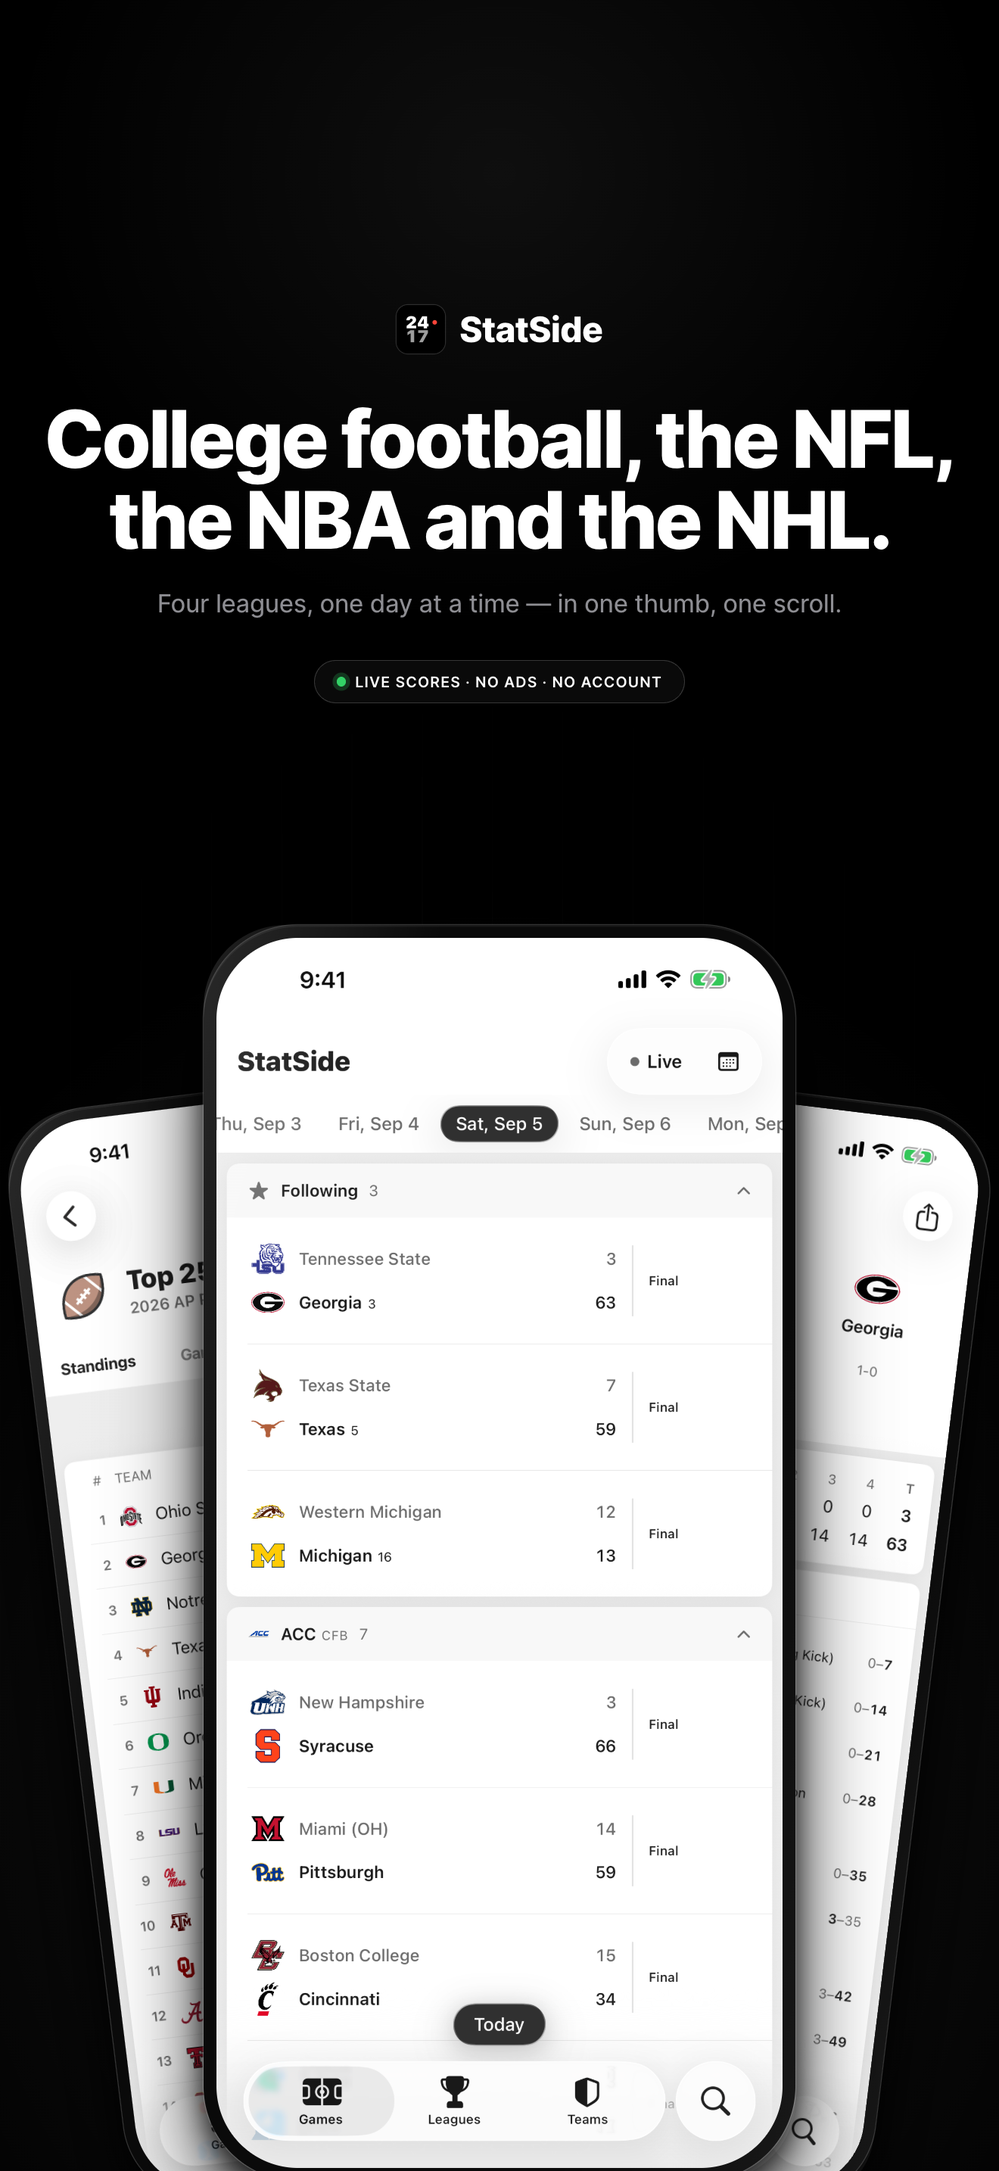
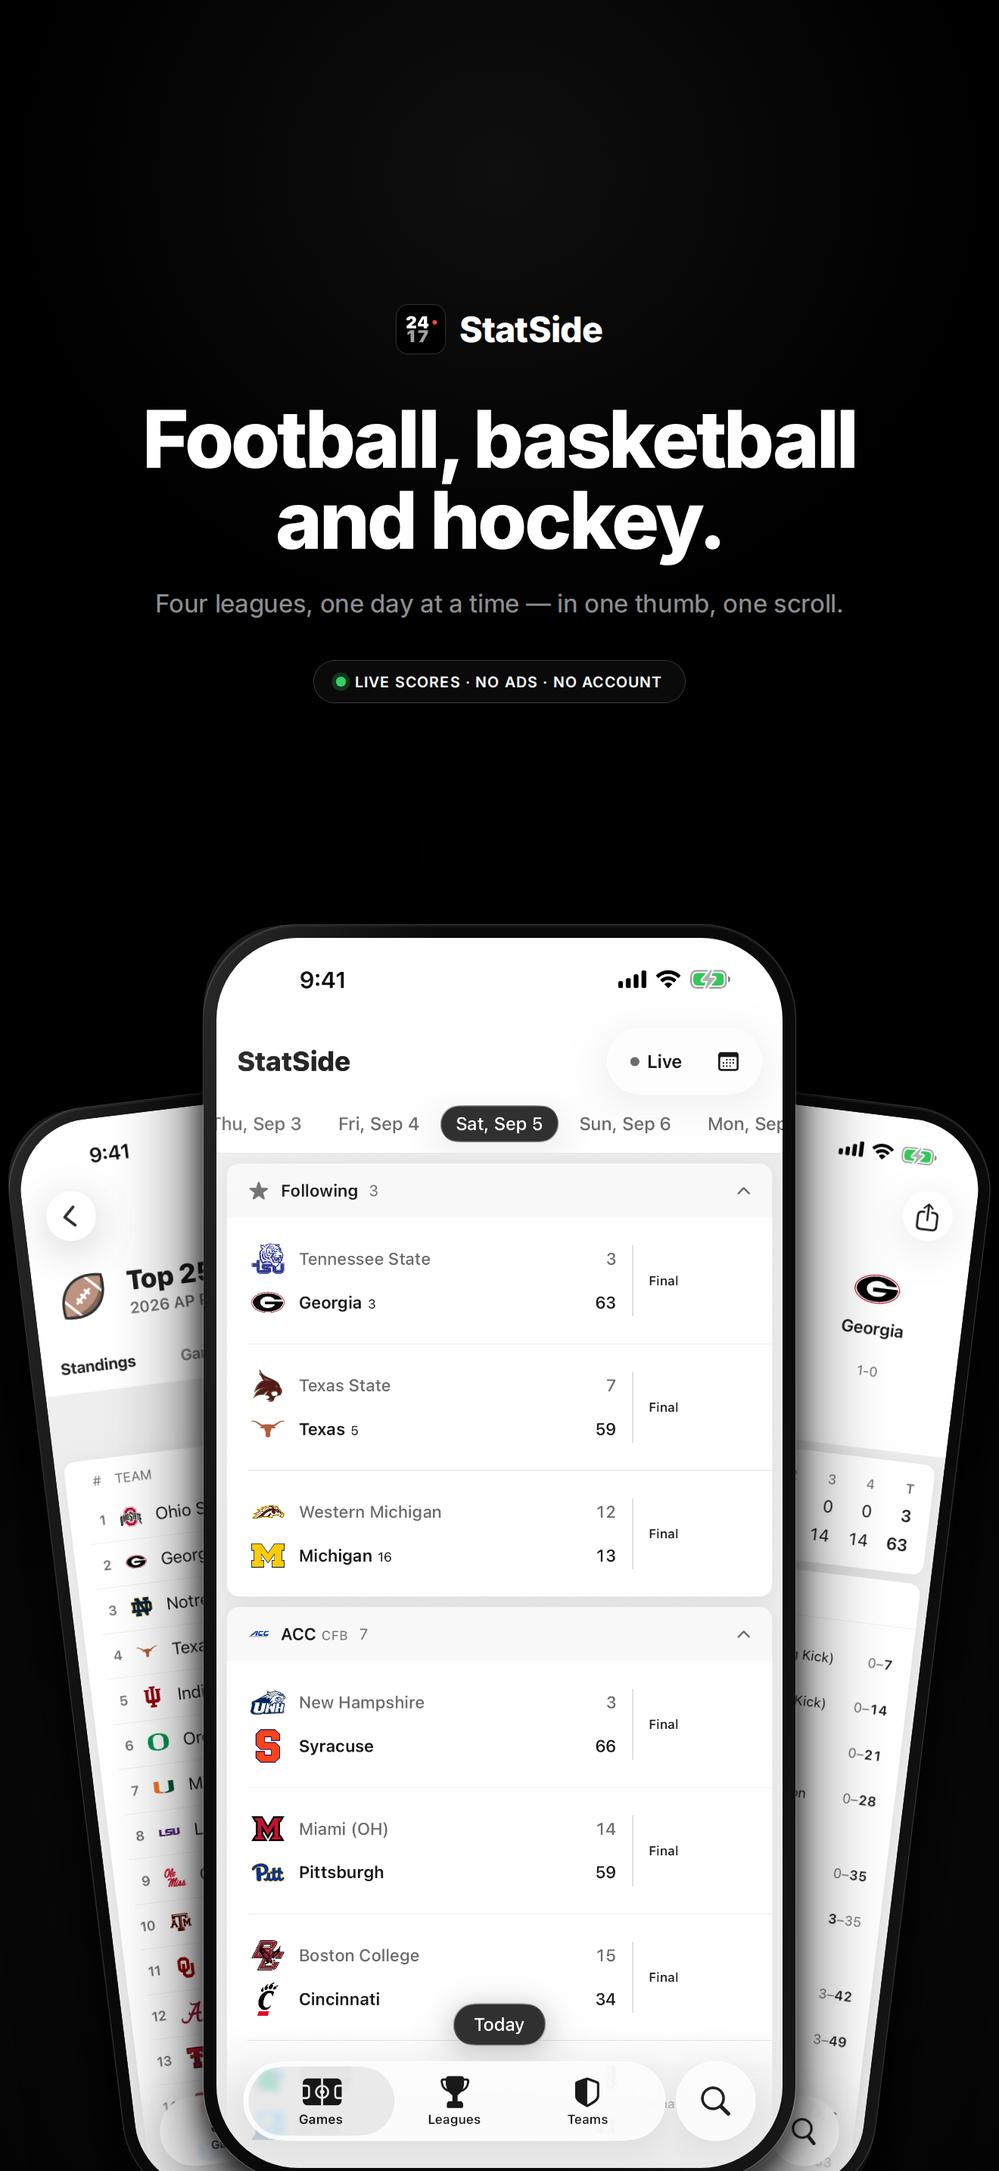
Take league names out of the App Store listing (4.1(a) rejection) (#246)
App Review rejected 2.6.1 (21) under Guideline 4.1(a): the metadata named
third-party leagues without authorization. Every public field now names
sports instead of leagues:

- Subtitle: "Football, basketball, hockey" (was "CFB, NFL, NBA and NHL scores")
- Keywords: ncaaf, afc, nfc out
- Promotional text and description: football, basketball, hockey, college
  and pro; the disclaimer covers any league without naming one
- Re-rendered 01-hero (headline), 05-rankings (poll bullet) and 08-closer
  (disclaimer) at both sizes

Adds the Resolution Center reply, a decisions row, a parity row (n/a), and
a cut-release rule so the next listing audit doesn't put the names back.
No new build: build 21 stands.

Claude-Session: https://claude.ai/code/session_01Xg5NgBDs9bUxv6nYzioayx

Changed region(s): [[0.0311, 0.1862, 0.9318, 0.2793]]

diff --git a/docs/social/src/as-08-closer.html b/docs/social/src/as-08-closer.html
@@ -42,7 +42,7 @@
       <img class="icon" src="../../../sports/Assets.xcassets/AppIcon.appiconset/AppIcon.png">
       <div class="wordmark">StatSide</div>
       <div class="headline">Fast. Focused.<br>Four leagues, done right.</div>
-      <div class="fine">An independent app. Not affiliated with or endorsed by the NFL, the NBA, the NHL, the NCAA, or any conference, team or school.</div>
+      <div class="fine">An independent app. Not affiliated with or endorsed by any league, conference, team or school.</div>
     </div>
   </div>
 </div>

diff --git a/docs/social/src/as-05-rankings.html b/docs/social/src/as-05-rankings.html
@@ -34,7 +34,7 @@
       <div class="kicker">Tables and details</div>
       <div class="headline">Polls, plays,<br>whole seasons.</div>
       <ul class="bullets">
-        <li><b>AP Top 25 and Coaches Poll</b>, with movement arrows</li>
+        <li><b>The Top 25 polls</b>, with movement arrows</li>
         <li><b>Game pages</b> — line score, scoring plays, drive log, team stats</li>
         <li><b>Team pages</b> — full season schedule and results</li>
         <li><b>Past seasons</b> back to 2014</li>

diff --git a/docs/social/src/as-01-hero.html b/docs/social/src/as-01-hero.html
@@ -58,7 +58,7 @@
         <div class="wordmark">StatSide</div>
       </div>
 
-      <div class="headline">College football, the NFL,<br>the NBA and the NHL.</div>
+      <div class="headline">Football, basketball<br>and hockey.</div>
       <div class="sub">Four leagues, one day at a time — in one thumb, one scroll.</div>
       <div class="pill"><span class="dot"></span> Live scores · No ads · No account</div>
     </div>

diff --git a/docs/appstore/listing.md b/docs/appstore/listing.md
@@ -14,13 +14,21 @@ NFL joined — a name that names one league is worse than no fallback.
 
 ## Subtitle (30 chars max) ✏
 
-`CFB, NFL, NBA and NHL scores` (28)
+`Football, basketball, hockey` (28)
+
+**Changed for the 4.1(a) rejection (2.6.1, 2026-09-28).** The old subtitle,
+`CFB, NFL, NBA and NHL scores`, named three leagues' trademarks in an indexed
+field, and 4.1(a) bars that without the leagues' permission. Sport words
+carry no one's mark, and they're what a fan types when they don't already
+know an app's name. What it costs: the `nfl`, `nba`, `nhl` and `cfb` queries
+no longer hit this field, and nothing else in the listing can carry them now.
+Don't put a league name back in any store field (see § 4.1(a) rejection).
 
 Alternates:
-- `CFB, NFL, NBA, NHL at a glance` (30) — keeps the 1.x promise, but sits
-  exactly on the limit, so any counting difference in ASC rejects it
 - `Four leagues, at a glance` (25) — keeps the promise, names nothing, and
   spends no characters on search
+- `Live scores for your teams` (26) — says what the app does, not what it
+  covers
 
 Audited at 2.3.0 and unchanged: 2.3.0 adds no league, so the field still names
 exactly what the app covers. Audited again at 2.5.0 and unchanged, for the
@@ -386,9 +394,13 @@ up, fold the still-true bullets into 1.3.1 and drop that one.
 
 ## Promotional text (170 chars max — editable anytime without review) ✏
 
-> Four leagues, one screen. Follow your college football, NFL, NBA and NHL
-> teams, see what's live, and get a reminder 30 minutes before they play.
-> No ads. (155)
+> Four leagues, one screen. Follow your football, basketball and hockey
+> teams, college and pro, see what's live, and get a reminder 30 minutes
+> before they play. No ads. (166)
+
+**Changed for the 4.1(a) rejection (2.6.1, 2026-09-28).** The previous line
+named the NFL, NBA and NHL. Promotional text is metadata even though it
+changes without review, so it goes league-free with everything else.
 
 Rewritten for 2.2.0: the 2.0 line said "Saturday and Sunday", which is two
 days of a week the app now covers most of. "Before they play" replaces
@@ -422,16 +434,16 @@ leagues ever stop being the thing worth saying first; no review needed.
 
 ## Description (4000 chars max) ✏
 
-> StatSide is college football, the NFL, the NBA and the NHL, at a glance. One
-> screen answers "what's happening right now" — no ads, no interstitials,
+> StatSide is football, basketball and hockey, college and pro, at a glance.
+> One screen answers "what's happening right now" — no ads, no interstitials,
 > nothing between you and the scores.
 >
 > BUILT FOR GAME DAY, ALL YEAR
 > • Your teams first: follow any team in any of the four leagues and their
 >   games lead the page, together
 > • One day at a time, every league stacked — college football broken down
->   the way you think about it, by conference, and the NFL, the NBA and the
->   NHL each in a section of their own
+>   the way you think about it, by conference, and pro football, basketball
+>   and hockey each in a section of their own
 > • Live games get a pulsing dot, heavier type on the score, and possession
 >   where the sport has it
 > • One tap filters to live games, or to the tight ones: close late, or the
@@ -445,9 +457,9 @@ leagues ever stop being the thing worth saying first; no review needed.
 > • Long-press any game to follow a team or share the score
 >
 > LEAGUES, TABLES AND TEAMS
-> • AP Top 25 and Coaches Poll, with movement arrows
-> • Every FBS conference, the FCS, the AFC and NFC and their divisions, and
->   every NBA and NHL division — each table in its own league's terms
+> • The college football Top 25 polls, with movement arrows
+> • Every college conference, and every pro conference and division — each
+>   table in its own league's terms
 > • Game pages: line score, box score, scoring plays, team stats, leaders,
 >   win probability, the head-to-head series, and the plays themselves —
 >   drives for football, periods for basketball and hockey
@@ -469,8 +481,17 @@ leagues ever stop being the thing worth saying first; no review needed.
 >
 > Free. Fast. Four leagues, done right.
 >
-> StatSide is an independent app and is not affiliated with or endorsed by the
-> NFL, the NBA, the NHL, the NCAA, or any conference, team or school.
+> StatSide is an independent app and is not affiliated with or endorsed by any
+> league, conference, team or school.
+
+**Changed for the 4.1(a) rejection (2.6.1, 2026-09-28), in five places,
+all league names:** the opener, the "every league stacked" bullet (pro
+football, basketball and hockey), the polls bullet (no "AP", no "Coaches
+Poll": both are someone's product name), the tables bullet (every college
+and pro conference and division, where it used to list the FBS, FCS, AFC,
+NFC, NBA and NHL), and the disclaimer. The disclaimer used to name the
+NFL, NBA, NHL and NCAA; it still disclaims every one of them, it just
+doesn't print their marks to do it. Features are untouched.
 
 Audited at 2.6.1 and unchanged. The description never named a refresh rate,
 and Hide all, the day swipe and the switches are refinements of surfaces
@@ -521,7 +542,16 @@ data" paragraph is unchanged, because nothing in this release collects any.
 
 ## Keywords (100 chars max, comma-separated, no spaces needed after commas)
 
-`college football,scores,live,standings,top 25,ncaaf,basketball,hockey,box score,playoff,afc,nfc` (95)
+`college,scores,live,standings,top 25,box score,playoff,pro,schedule,widget,stats,rankings,hoops` (95)
+
+**Changed for the 4.1(a) rejection (2.6.1, 2026-09-28).** Out: `ncaaf`,
+`afc` and `nfc`, which are league and conference marks, and `football`,
+`basketball` and `hockey`, which the new subtitle indexes. In: `pro` and
+`college` on their own (the store combines keyword and subtitle words, so
+`pro` + `football` from the subtitle still matches "pro football"),
+`schedule`, `widget`, `stats`, `rankings` and `hoops`. Keep every league,
+conference and team name out of this field for good: it's the one field a
+reviewer reads as intent, since nobody sees it but them.
 
 Don't repeat words already in the name/subtitle — they're indexed
 automatically. That is why `cfb`, `nfl`, `nba` and `nhl` are *not* here: all
@@ -627,6 +657,65 @@ picture of a Sunday morning. `SCREENSHOT_PREGAME` waives the "must have
 scores" assertion and stops after the slate, since everything below it needs
 a played game. Reshoot it once the season is under way and it will carry real
 scores.
+
+### 4.1(a) rejection (2.6.1, build 21) — league names in the metadata
+
+**Rejected 2026-09-28** under Guideline 4.1(a) (Copycats), reviewed on an
+iPad Air 11-inch (M3): "the metadata includes content that resembles one or
+multiple third-party sports teams and/or leagues without the necessary
+authorization." Apple's remedy is either documentary evidence of rights,
+which StatSide doesn't have, or taking the third-party content out of the
+metadata.
+
+The listing had been naming the leagues since 2.0, in every field Apple
+indexes and in the first frame a browser sees. That's the difference between
+describing what an app covers and trading on someone else's name, and
+4.1(a) is written about the second. So every store field now names **sports**
+(football, basketball, hockey, college and pro) and no league, conference,
+poll or team:
+
+| Field | Was | Now |
+|---|---|---|
+| Subtitle | `CFB, NFL, NBA and NHL scores` | `Football, basketball, hockey` |
+| Keywords | `ncaaf`, `afc`, `nfc` | gone (see § Keywords) |
+| Promotional text | "college football, NFL, NBA and NHL teams" | "football, basketball and hockey teams, college and pro" |
+| Description | opener, two bullets and the disclaimer named them | sport words; disclaimer covers "any league, conference, team or school" |
+| `01-hero` headline | "College football, the NFL, the NBA and the NHL." | "Football, basketball and hockey." |
+| `05-rankings` bullet | "AP Top 25 and Coaches Poll" | "The Top 25 polls" |
+| `08-closer` fine print | named the NFL, NBA, NHL and NCAA | "any league, conference, team or school" |
+
+**What was deliberately left alone, and is the next step if this bounces:**
+
+- **Team logos inside the device screens.** Every slate frame shows real
+  team marks (Georgia's G, Michigan's M, the Buccaneers, and so on), because
+  that's what the app draws. Apple's note says "teams and/or leagues", so
+  logos in screenshots are the likeliest second strike. The fix would be a
+  reshoot with a DEBUG screenshot mode that draws each logo as a monogram
+  disc, and it's bigger than a copy edit: the color budget's first exception
+  exists because logos are how the app reads. Andy's call if Apple asks
+  again.
+- **In-app text visible in the frames.** Section headers ("ACC CFB"), the
+  poll's own title ("2026 AP Poll"), team names. That's the app showing
+  factual data, which is what the screenshots are required to show.
+- **The app name.** `StatSide` names nobody.
+- **App Review notes.** They name the four leagues so a reviewer knows what
+  to look for. They aren't public metadata, and hiding from the reviewer
+  what the app covers would be worse than naming it.
+- **What's New.** 2.6.1's notes name no league. Older versions' notes aren't
+  shown on the store.
+- **`docs/social/`'s thread and Story graphics.** Off-store, and 4.1(a) is
+  about the listing. Same reasoning as the 2.3.7 note on "Free."
+
+**No new build needed.** All of it is metadata, so build 21 stands:
+update the fields, upload `01-hero`, `05-rankings` and `08-closer` from both
+marketing folders, and reply in the Resolution Center (§ 4.1(a) rejection —
+Resolution Center reply).
+
+**Rendered off Linux, like the 2.3.7 fix**, with the Inter variable font from
+`@fontsource-variable/inter` standing in for the Dropbox copy. Both sizes are
+exactly 1284×2778 and 1320×2868. Re-render the three on the Mac per
+`docs/social/README.md` § Regenerating before upload if the glyphs need to
+match frames 02–07 exactly.
 
 ### 2.6.1: carried forward a fifth time
 
@@ -963,6 +1052,31 @@ the 4.2.2 reply below: don't argue, say what changed.
 >
 > Happy to make any further adjustment if something else in the set reads as a
 > price reference to you.
+
+## 4.1(a) rejection (build 21) — Resolution Center reply ✏
+
+Sent in-thread in App Store Connect after updating the fields and the three
+screenshots. Same tone as the replies above: don't argue, say what changed.
+
+> Hello, and thank you for the review.
+>
+> We don't hold licenses from the leagues, so we've taken their names out of
+> the metadata instead:
+>
+> • The subtitle now reads "Football, basketball, hockey", with no league
+>   names.
+> • League and conference names are removed from the keywords.
+> • The description and promotional text describe the sports rather than
+>   naming leagues, and the disclaimer now reads "StatSide is an independent
+>   app and is not affiliated with or endorsed by any league, conference,
+>   team or school."
+> • The first screenshot's headline no longer names any league, and league
+>   and poll names are removed from the other screenshot captions.
+>
+> The binary is unchanged, so build 21 is the build we'd like reviewed.
+>
+> If anything else in the listing still reads as third-party content to you,
+> please point us to it and we'll change it.
 
 ## Copyright
 

diff --git a/docs/decisions.md b/docs/decisions.md
@@ -368,3 +368,4 @@ escape hatch for work with no product surface.
 | 2026-09-28 | **The coach hero drops "Head coach"; the role becomes the Profile card's first row** (`Position: Head coach`), on iOS and web. The hero is photo, name and team badge, and its spoken sentence is name and club | Andy: "Don't put head coach in the header. Athletes position is in their profile card as this should too." The player page settled this on 2026-09-21: the hero says who someone is and who they work for, and the facts live in the Profile card. The row leads the card because it's the one fact every coach has (ESPN lists head coaches only), which also means a first-season coach with no birth date still gets a Profile card |
 | 2026-09-28 | **The bell opens a per-team notifications sheet** (`TeamNotificationSheet`), reversing 2026-08-04's app-wide bell and its "per-team granularity is icebox material". Top to bottom: Live Activities (pin every game), a switch for this team, then a checklist: 30 min before kickoff, kickoff, scoring plays (Goals in the NHL; no row in the NBA), halftime (Intermissions in the NHL), final score, news. **Only rows that can fire are shown**: the kickoff reminder is local, and the rest wait behind `TeamAlert.serviceIsAvailable` (false in release, a DEBUG default for a look) until a server sends them. `TeamAlertStore` keeps choices per follow key; an untouched team reads kickoff-only, so every existing follower keeps exactly what they had. A per-team mute sits beside the choices so off-then-on gives them back. The Settings switch stays as the app-wide switch above every team. Checks are ink, not FotMob's green | Andy, 2026-09-28, answering E28's three calls with a FotMob screenshot: per team; scoring, news and the rest wanted; team-level Live Activities. A row that can't fire would be a promise the app doesn't keep, so the rows ship with the service rather than ahead of it. An NBA alert per basket is noise, and "scoring" has no quieter meaning the payload carries |
 | 2026-09-28 | **A team can pin every game to the Lock Screen**, beside E12's per-game pin. `LiveActivityController.pinGames(of:)` cards a pinning team's games that are live or kick off within 6 hours (`pinWindow`, under ActivityKit's 8-hour life), deduped, skipping TBD times and games already carded. It runs on scene-active and on any sheet change, one schedule request per pinning team, and nothing while `isAvailable` is off. Turning the switch off leaves existing cards alone | Andy: "Turning on live activities at the team level should enable them for all games that team plays in." Reverses E12's per-game-only choice, which was made so a four-league follow set couldn't wall the lock screen; opt-in per team answers that worry. The running app is the only thing that can start a card until push-to-start exists, so a game is carded the first time the app opens inside its window |
+| 2026-09-28 | **The App Store listing names sports, never leagues.** Subtitle `Football, basketball, hockey` (was `CFB, NFL, NBA and NHL scores`); `ncaaf`, `afc` and `nfc` out of the keywords; promotional text and description say football, basketball and hockey, college and pro; the description's disclaimer covers "any league, conference, team or school" without naming one. Three marketing frames re-rendered: `01-hero`'s headline ("Football, basketball and hockey."), `05-rankings`' poll bullet ("The Top 25 polls") and `08-closer`'s disclaimer. Team logos inside the device screens, in-app text in the frames, the app name and the App Review notes are unchanged. `cut-release` Phase 2 now forbids league, conference, poll or team names in public store fields. No new build | App Review rejected 2.6.1 (21) under Guideline 4.1(a) (Copycats): "the metadata includes content that resembles one or multiple third-party sports teams and/or leagues without the necessary authorization." StatSide holds no license, so Apple's other remedy (documentary evidence) isn't available. The listing had named the leagues in every indexed field since 2.0 and in 100pt type on the first frame; the cost of dropping them is the `nfl`/`nba`/`nhl`/`cfb` search queries, which no other field can now carry. Logos were left alone because they're the app's own content and the color budget's first exception, and reshooting with monogram discs is a product call; it's the named next step if Apple rejects again |

diff --git a/docs/social/README.md b/docs/social/README.md
@@ -84,6 +84,16 @@ date; the thread and Story closers keep "Free." because they aren't App Store
 metadata and nothing stops an app naming its price off the store. Don't
 "fix" the divergence by syncing them.
 
+**The App Store frames name no league, either.** 2.6.1 was rejected under
+4.1(a) on 2026-09-28 for league names in the metadata, the hero headline
+("College football, the NFL, the NBA and the NHL.") among them. `as-01-hero`
+now reads "Football, basketball and hockey.", `as-05-rankings` says "The Top
+25 polls" rather than "AP Top 25 and Coaches Poll", and `as-08-closer`'s
+disclaimer covers "any league, conference, team or school" without naming
+one. The thread and Story graphics keep their league names; same reasoning
+as "Free." above. Keep league, conference, poll and team names out of every
+`as-*.html` caption.
+
 
 Each `as-*.html` is its `story-*.html` counterpart plus a trailing `<style>`
 block that overrides the stage and the vertical positions. This is a reflow,

diff --git a/.claude/skills/cut-release/SKILL.md b/.claude/skills/cut-release/SKILL.md
@@ -113,6 +113,13 @@ them is indexed or read by a reviewer.
 3. Review notes matter more than their length suggests — the 4.2.2 rejection
    on build 5 was likely fed by an opener that described the app as displaying
    publicly available scores. Lead with native functionality.
+4. **No league, conference, poll or team names in any public store field or
+   screenshot caption.** 2.6.1 was rejected under 4.1(a) on 2026-09-28 for
+   naming the NFL, NBA and NHL in the subtitle and the hero frame. Name the
+   sports (football, basketball, hockey, college and pro) instead. This beats
+   step 2's "a field that names a subset is a bug": a field that names a
+   league is the worse bug. Review notes are exempt, since only the reviewer
+   reads them. See `docs/appstore/listing.md` § 4.1(a) rejection.
 
 ## Phase 3 — Verify: tests, scoped and serial
 

diff --git a/docs/web-parity.md b/docs/web-parity.md
@@ -890,3 +890,4 @@ sibling below it.
 | 2026-09-28 | Coach hero drops "Head coach"; it becomes the Profile card's Position row | **shipped** — `coach-view.tsx`, `coach-profile-pane.tsx` |
 | 2026-09-28 | Bell opens a per-team notifications sheet | **n/a** — local notifications and their permission flow |
 | 2026-09-28 | A team can pin every game to the Lock Screen | **n/a** — Live Activities have no web analog |
+| 2026-09-28 | App Store listing names sports, never leagues (4.1(a) rejection) | **n/a** — App Store metadata; the web has no store listing |
